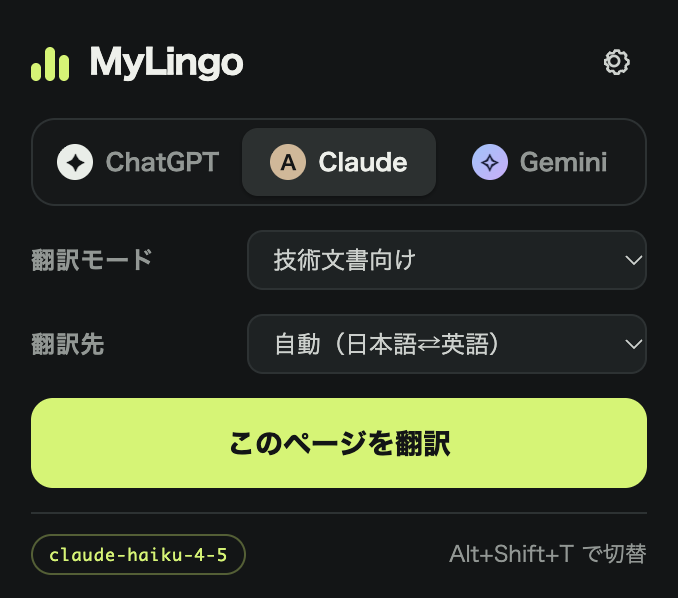
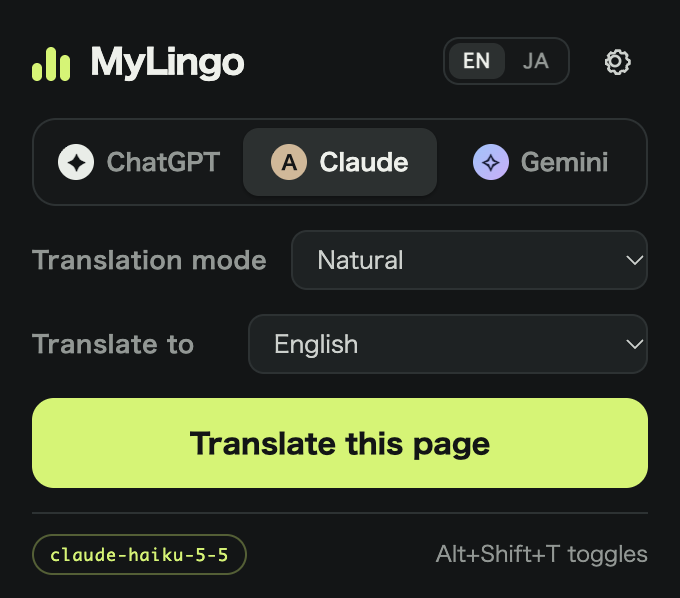
README: スクリーンショットを英語版・日本語版に差し替え
- Webアプリと拡張機能のポップアップの画面を、表示言語ごとに撮り直したものに差し替え
- README.md は英語UI、README.ja.md は日本語UIのスクリーンショットを表示

Claude-Session: https://claude.ai/code/session_01KFqDYCHZRCHpGPU6txFjam

diff --git a/README.ja.md b/README.ja.md
@@ -4,7 +4,7 @@
 
 ChatGPT、Claude、Gemini を切り替えて使える、シンプルなブラウザ翻訳ツールです。英語・日本語をはじめ、好きな言語へ翻訳できます。Webアプリと、表示中のWebページを翻訳するChrome拡張機能があります。
 
-![MyLingo の画面](assets/mylingo-screenshot.png)
+![MyLingo の画面](assets/mylingo-screenshot-ja.png)
 
 ## 特長
 
@@ -88,7 +88,7 @@ git config core.hooksPath .githooks && .githooks/write-version
 
 `extension/` フォルダには、表示中のWebページをまるごと翻訳するChrome拡張機能が入っています。Webアプリと同じく ChatGPT / Claude / Gemini を切り替えて使えます。
 
-<img src="assets/extension-popup.png" alt="MyLingo Chrome拡張機能のポップアップ画面" width="340">
+<img src="assets/extension-popup-ja.png" alt="MyLingo Chrome拡張機能のポップアップ画面" width="340">
 
 ### 主な機能
 
